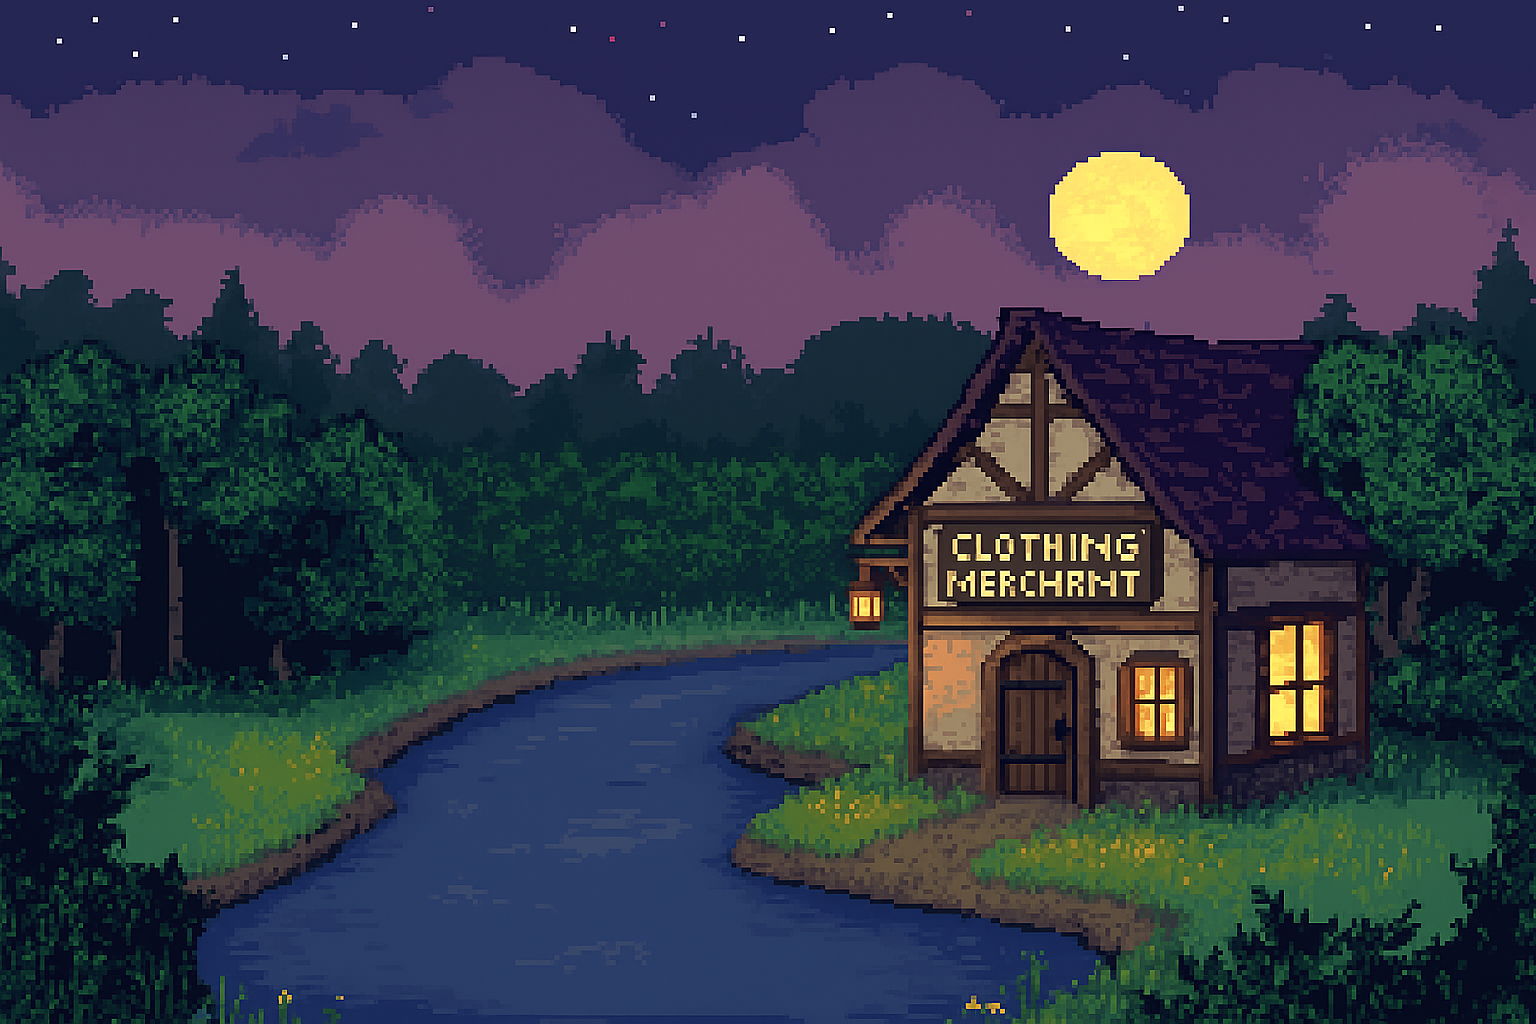
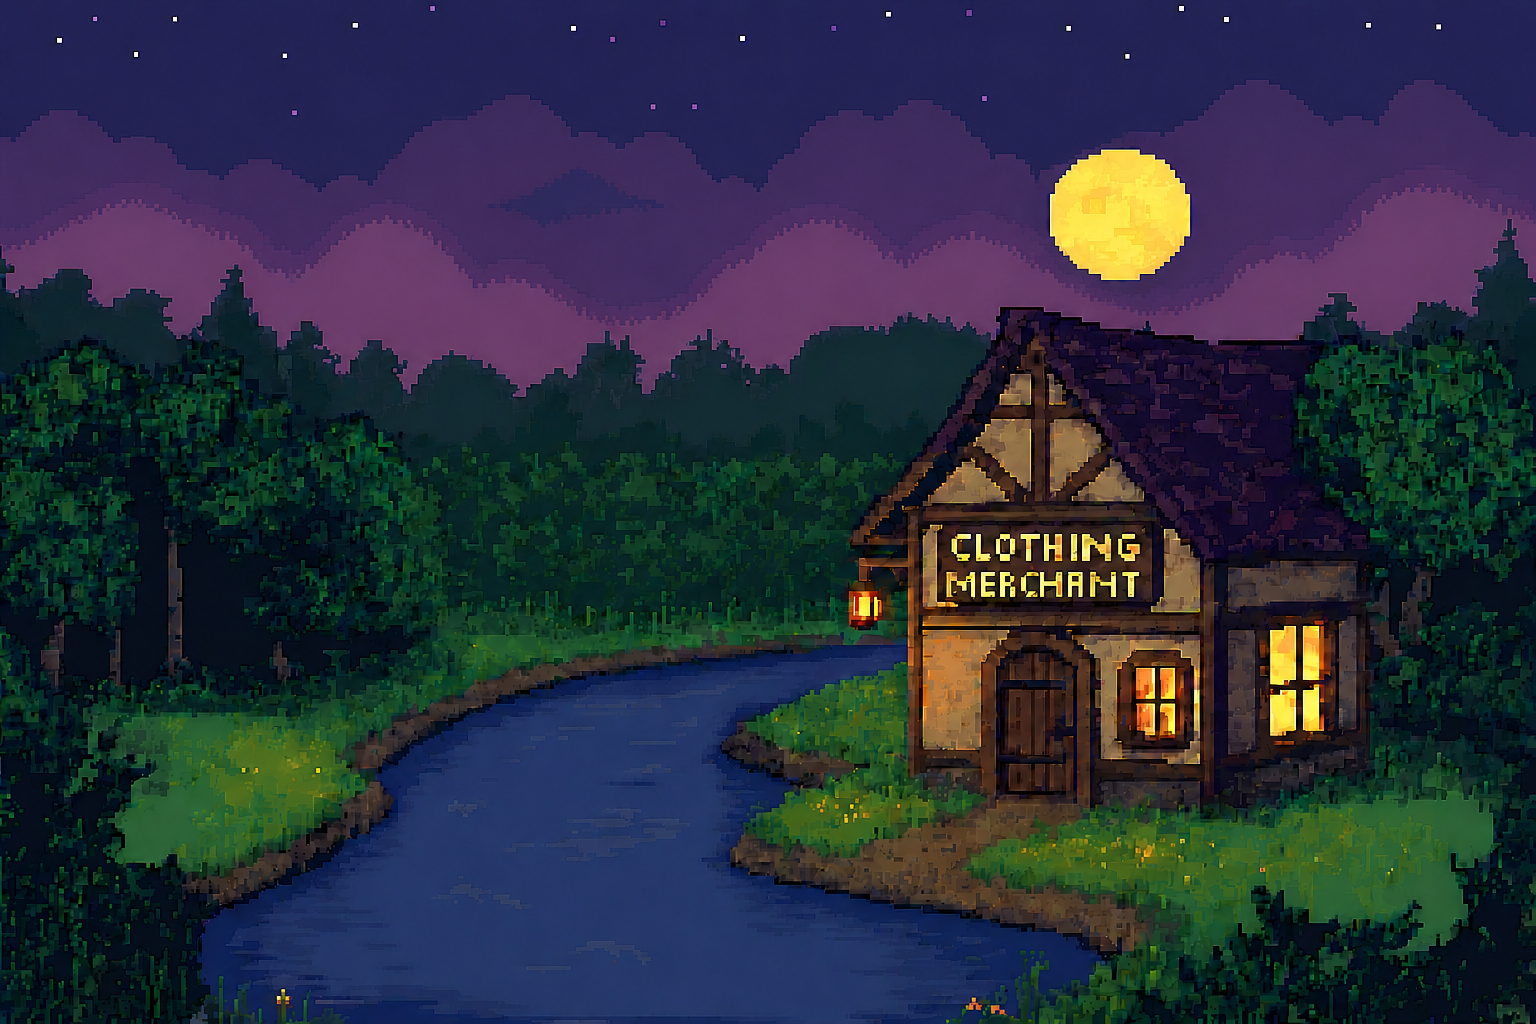
styleizing the inner house

diff --git a/pixel-clothing/src/app/house/page.jsx b/pixel-clothing/src/app/house/page.jsx
@@ -4,8 +4,9 @@ import { useRouter } from 'next/navigation';
 import './House.css';
 import AudioController from '../../components/AudioController/AudioController';
 import Guide from '../../components/Guide/Guide';
+import QuestPopup from '../../components/Popups/QuestPopup';
+import AboutPopup from '../../components/Popups/AboutPopup';
 
-// Item Database (Easy to update!)
 const shopItems = {
   iroha: {
     id: 'iroha',
@@ -28,19 +29,19 @@ const shopItems = {
 export default function HousePage() {
   const router = useRouter();
   
-  // States
   const [selectedItem, setSelectedItem] = useState(null);
   const [panelMode, setPanelMode] = useState('desc'); 
   const [selectedSize, setSelectedSize] = useState('M');
   const [cartItems, setCartItems] = useState([]);
   const [isCartOpen, setIsCartOpen] = useState(false);
-  const [isGuideOpen, setIsGuideOpen] = useState(false);
+  const [activePopup, setActivePopup] = useState(null); // 'quest', 'guide', 'about', or null
 
   const [dialogue, setDialogue] = useState("");
   const fullText = "EJ: Oh, Would you like to see these clothes? I'm actually selling these, I'm happy if you would pick one.";
 
   useEffect(() => {
-    if (selectedItem || isGuideOpen) return; 
+    // Pause dialogue if an item is selected or a popup is open
+    if (selectedItem || activePopup) return; 
     
     let i = 0;
     setDialogue("");
@@ -50,9 +51,8 @@ export default function HousePage() {
       if (i === fullText.length) clearInterval(timer);
     }, 40);
     return () => clearInterval(timer);
-  }, [selectedItem, isGuideOpen]);
+  }, [selectedItem, activePopup]);
 
-  // Handlers
   const handleItemClick = (itemId) => {
     if (selectedItem === itemId) {
       setSelectedItem(null);
@@ -81,15 +81,15 @@ export default function HousePage() {
       <img src="/assets/images/ej.png" className="merchant-character" alt="EJ" />
 
       <nav className="top-menu">
-        <div className="menu-item" onClick={() => router.push('/#quest')}>Quest</div>
+        <div className="menu-item" onClick={() => setActivePopup('quest')}>Quest</div>
+        <div className="menu-item" onClick={() => setActivePopup('guide')}>Guide</div>
+        <div className="menu-item" onClick={() => setActivePopup('about')}>About</div>
         <div className="menu-item" onClick={() => router.push('/')}>Exit</div>
-        <div className="menu-item" onClick={() => setIsGuideOpen(true)}>Guide</div>
-        <div className="menu-item" onClick={() => router.push('/#about')}>About Us</div>
       </nav>
 
       <img src="/assets/images/kart.png" className="shopping-cart-icon" onClick={() => setIsCartOpen(true)} alt="Cart" />
 
-      <div className="keepers-inventory" style={{ display: isGuideOpen ? 'none' : 'block' }}>
+      <div className="keepers-inventory" style={{ display: activePopup ? 'none' : 'block' }}>
         <img src="/assets/images/inventory.png" className="inventory-bg" alt="Inventory" />
         <div className="inventory-items">
           <div className="item-slot slot-1" onClick={() => handleItemClick('iroha')}>
@@ -106,7 +106,7 @@ export default function HousePage() {
         </div>
       </div>
 
-      {!selectedItem && !isGuideOpen && (
+      {!selectedItem && !activePopup && (
         <div className="dialogue-box">
           <img src="/assets/images/speechbox.png" className="dialogue-bg" alt="Speech Box" />
           <p className="dialogue-text">{dialogue}</p>
@@ -191,8 +191,12 @@ export default function HousePage() {
       </div>
 
       <AudioController isVisible={true} />
-      {isGuideOpen && <Guide onClose={() => setIsGuideOpen(false)} />}
       
+      {/* Popups */}
+      {activePopup === 'quest' && <QuestPopup onClose={() => setActivePopup(null)} />}
+      {activePopup === 'guide' && <Guide onClose={() => setActivePopup(null)} />}
+      {activePopup === 'about' && <AboutPopup onClose={() => setActivePopup(null)} />}
+
     </div>
   );
 }

diff --git a/pixel-clothing/src/app/StartPage.css b/pixel-clothing/src/app/StartPage.css
@@ -6,13 +6,27 @@
   min-height: 100vh;
   display: flex;
   flex-direction: column;
+  position: relative;
+  animation: bootUp 2s ease-out forwards;
+}
+
+.bg-layer {
+  position: absolute;
+  top: 0;
+  left: 0;
+  width: 100%;
+  height: 100%;
   background-size: cover;
   background-position: center center;
   background-repeat: no-repeat;
   background-attachment: fixed;
-  position: relative;
-  animation: bootUp 1.5s ease-out forwards;
-  transition: background-image 0.5s ease-in-out;
+  opacity: 0;
+  transition: opacity 1.5s ease-in-out;
+  z-index: 0;
+}
+
+.bg-layer.active {
+  opacity: 1;
 }
 
 @keyframes bootUp {

diff --git a/pixel-clothing/src/app/page.jsx b/pixel-clothing/src/app/page.jsx
@@ -36,7 +36,7 @@ export default function Home() {
     if (isNavigating) return;
     const interval = setInterval(() => {
       setBgIndex((prev) => (prev + 1) % backgrounds.length);
-    }, 1500);
+    }, 2000);
     return () => clearInterval(interval);
   }, [isNavigating]);
 
@@ -53,10 +53,15 @@ export default function Home() {
   };
 
   return (
-    <div 
-      className="start-page-container"
-      style={{ backgroundImage: `url('/assets/images/${backgrounds[bgIndex]}')` }}
-    >
+    <div className="start-page-container">
+      {backgrounds.map((bg, index) => (
+        <div
+          key={bg}
+          className={`bg-layer ${index === bgIndex ? 'active' : ''}`}
+          style={{ backgroundImage: `url('/assets/images/${bg}')` }}
+        />
+      ))}
+
       <div className={`blur-overlay ${isStarted && !activePopup ? 'remove-blur' : ''}`}></div>
 
       <div className="logo-container">

diff --git a/pixel-clothing/src/app/house/House.css b/pixel-clothing/src/app/house/House.css
@@ -74,13 +74,14 @@
 .dialogue-bg { width: 100%; filter: drop-shadow(0 4px 8px rgba(0,0,0,0.3)); image-rendering: pixelated; }
 .dialogue-text {
   position: absolute;
-  top: 37%;
-  left: 54%;
+  top: 40%;
+  left: 51%;
   transform: translate(-50%, -50%);
-  width: 75%;
+  width: 60%;
   font-size: 18px;
   color: #000;
   line-height: 1.6;
+  font-size: 24px;
 }
 
 /* Center Item Display */
@@ -103,10 +104,10 @@
   left: 50%;
   transform: translateX(-50%);
   display: flex;
-  gap: 80px;
+  gap: 170px;
   z-index: 20;
 }
-.menu-item { font-size: 32px; color: #fff; cursor: pointer; text-shadow: 2px 2px 4px rgba(0,0,0,0.8); }
+.menu-item { font-size: 29px; color: #fff; cursor: pointer; text-shadow: 2px 2px 4px rgba(0,0,0,0.8); }
 .menu-item:hover { transform: scale(1.1); color: #d58f00; }
 
 .shopping-cart-icon {